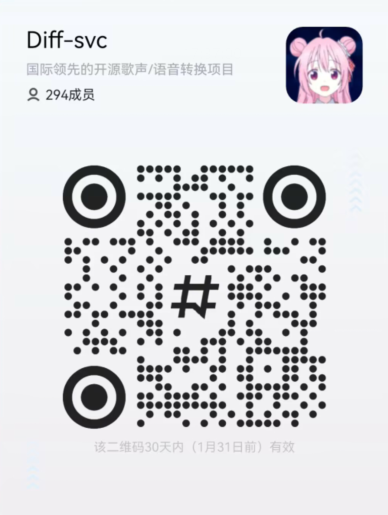
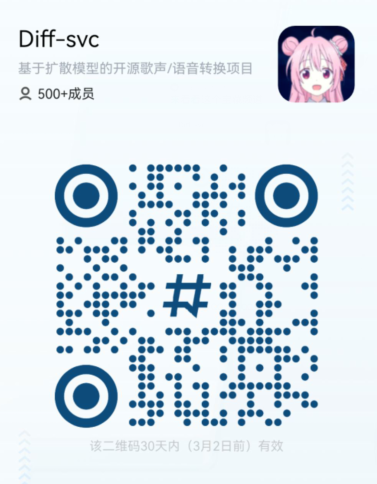
update qrcode

Changed region(s): [[0.1459, 0.3099, 0.8462, 0.9298], [0.0292, 0.062, 0.6711, 0.2169], [0.7294, 0.031, 0.9629, 0.2169]]

diff --git a/README.md b/README.md
@@ -46,7 +46,7 @@ CUDA_VISIBLE_DEVICES=0 python run.py --config training/config.yaml --exp_name [y
 详细训练过程和各种参数介绍请查看[推理与训练说明](./doc/train_and_inference.markdown)\
 Please refer to the [Inference and Training Instructions](./doc/training_and_inference_EN.markdown) for a detailed training process and introduction to various parameters.Thank you for the translation provided by @ρoem.
 ### 已训练模型/trained models
->目前本项目已在众多数据集进行过训练和测试。部分ckpt文件、demo音频和推理训练所需的其他文件请在下方QQ频道内下载\
+>目前本项目已在众多数据集进行过训练和测试。部分ckpt文件、demo音频和推理训练所需的其他文件请在下方QQ频道(频道号：5763z98e4m)内下载\
 使用QQ扫描此二维码(如不能加入，请尝试一个合适的网络环境):\
 This project has been trained and tested on many datasets. You can download the ckpt files, demo audio, and other files required for inference and training in the QQ channel below by using QQ to scan this QR code (if you cannot join, please try a suitable network environment).\
 <img src="./ckpt.png" width=256/>\
